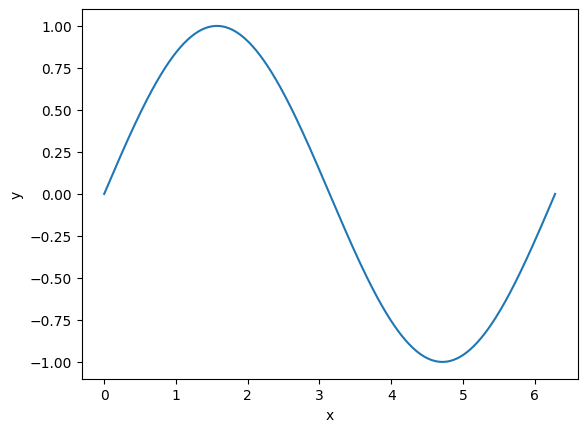
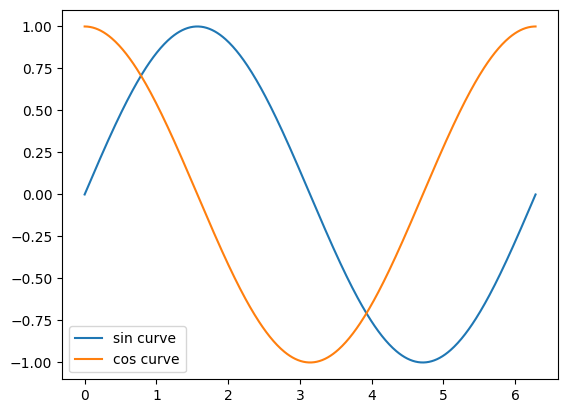
記事更新（pyplot）

diff --git a/content/posts/Python(matplotlib.pyplot)を使ってグラフを描画する方法/index.md b/content/posts/Python(matplotlib.pyplot)を使ってグラフを描画する方法/index.md
@@ -22,15 +22,15 @@ cover:
 import matplotlib.pyplot as plt
 import numpy as np
 x = np.linspace(0, 2*np.pi, 500)
-plt.plot(x,np.sin(x))
-plt.xlabel('x')
-plt.ylabel('y')
+plt.plot(x, np.sin(x), label="sin curve")
+plt.plot(x, np.cos(x), label="cos curve")
+plt.legend() # 凡例の表示
 plt.show()
 ```
 
 # 実行結果
 
-![img](img.png)
+![img.png](img.png)
 
 # 参考
 
